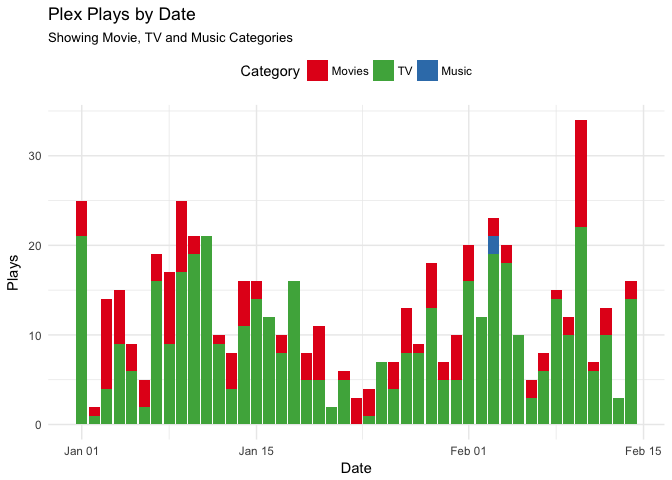
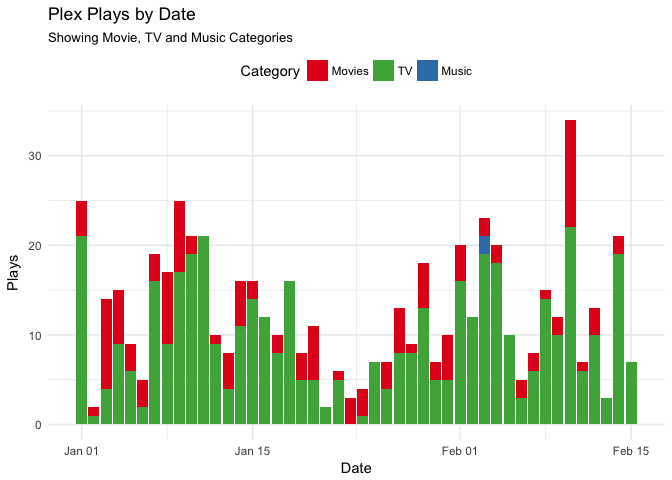
Tweaks

Changed region(s): [[0.1562, 0.25, 0.9688, 0.9688], [0.9062, 0.9062, 0.9688, 0.9688], [0.6562, 0.9062, 0.7188, 0.9688]]

diff --git a/README.md b/README.md
@@ -57,12 +57,11 @@ All plays in the current year, per day:
 plays <- get_plays_by_date(time_range = lubridate::yday(lubridate::now()))
 
 plays %>% 
-  gather(category, playcount, tv, movies, music) %>%
+  gather(category, playcount, TV, Movies, Music) %>%
   ggplot(data = ., aes(x = date, y = playcount, fill = category)) +
   geom_col() +
   scale_fill_brewer(palette = "Set1", 
-                    labels = c("Movies", "TV", "Music"),
-                    breaks = c("movies", "tv", "music")) +
+                    breaks = c("Movies", "TV", "Music")) +
   labs(title = "Plex Plays by Date",
        subtitle = "Showing Movie, TV and Music Categories",
        x = "Date", y = "Plays", fill = "Category") +
